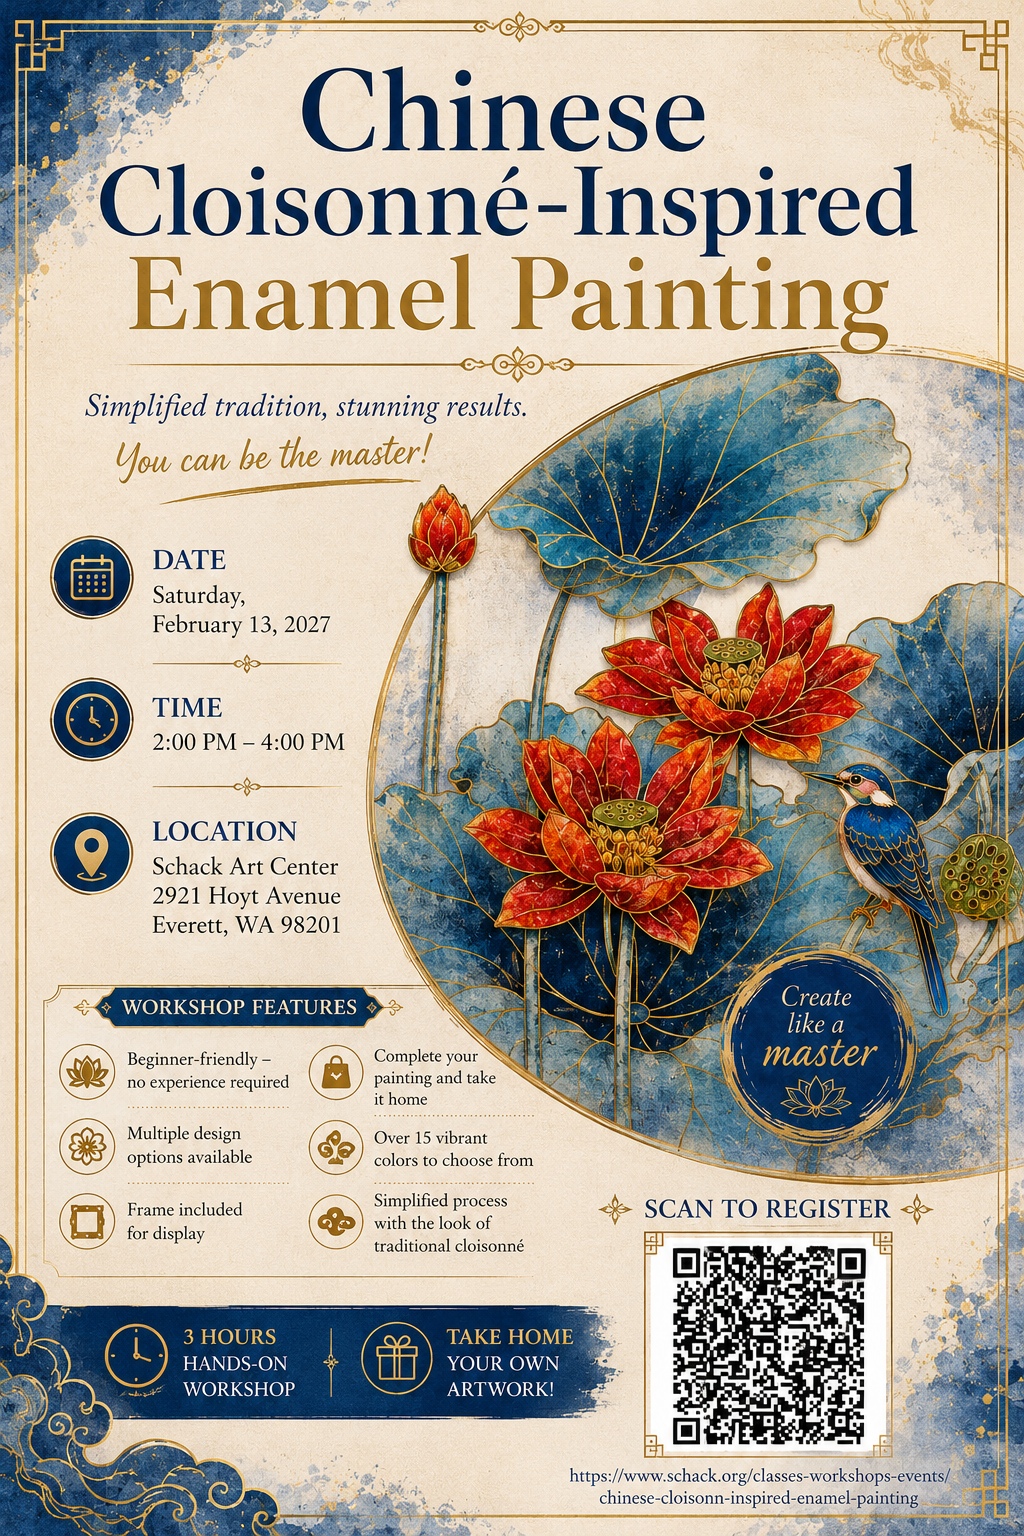
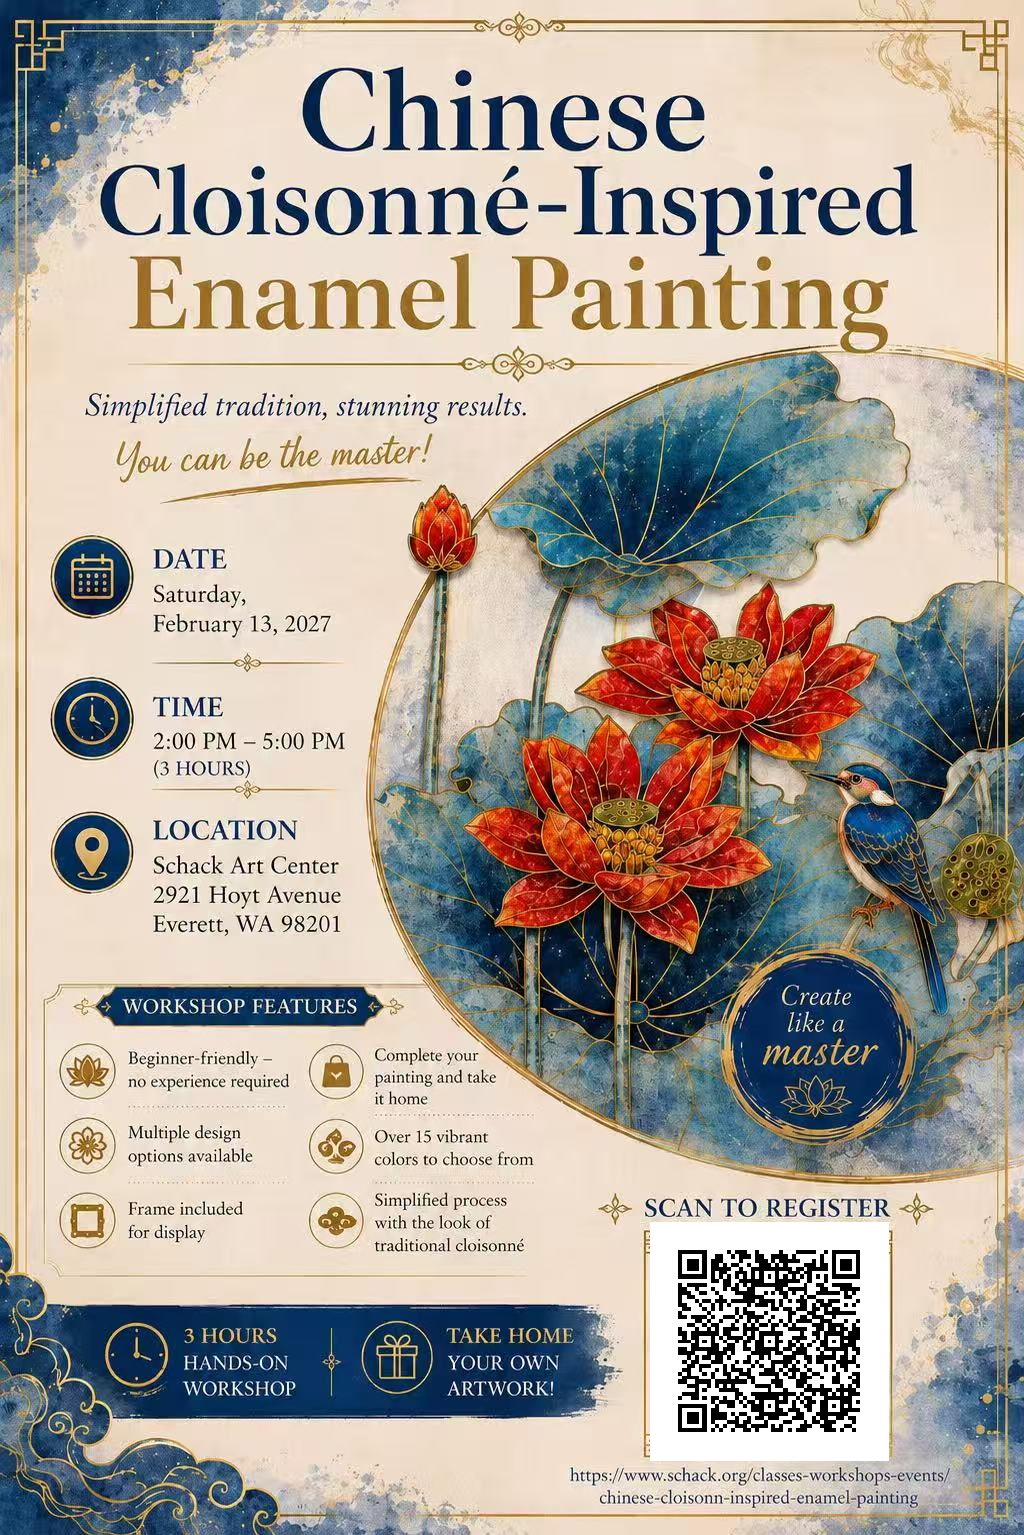
Update Feb 13, 2027 Enamel Painting poster and time (2–5 PM)
- Replace poster with redesigned version
- Update card time 2–4 PM -> 2–5 PM (3 hours) to match new poster

Changed region(s): [[0.0, 0.0, 1.0, 1.0], [0.625, 0.0, 0.6562, 0.0306], [0.2812, 0.398, 0.3125, 0.4287]]

diff --git a/index.html b/index.html
@@ -517,7 +517,7 @@
       <div class="meta">
         <div class="meta-row">
           <svg class="meta-icon" viewBox="0 0 24 24" fill="none" stroke="currentColor" stroke-width="1.5"><rect x="3" y="4" width="18" height="18" rx="2"/><line x1="16" y1="2" x2="16" y2="6"/><line x1="8" y1="2" x2="8" y2="6"/><line x1="3" y1="10" x2="21" y2="10"/></svg>
-          <span>Saturday, February 13, 2027 &nbsp;·&nbsp; 2:00 PM – 4:00 PM</span>
+          <span>Saturday, February 13, 2027 &nbsp;·&nbsp; 2:00 PM – 5:00 PM</span>
         </div>
         <div class="meta-row">
           <svg class="meta-icon" viewBox="0 0 24 24" fill="none" stroke="currentColor" stroke-width="1.5"><path d="M12 2C8.13 2 5 5.13 5 9c0 5.25 7 13 7 13s7-7.75 7-13c0-3.87-3.13-7-7-7z"/><circle cx="12" cy="9" r="2.5"/></svg>
